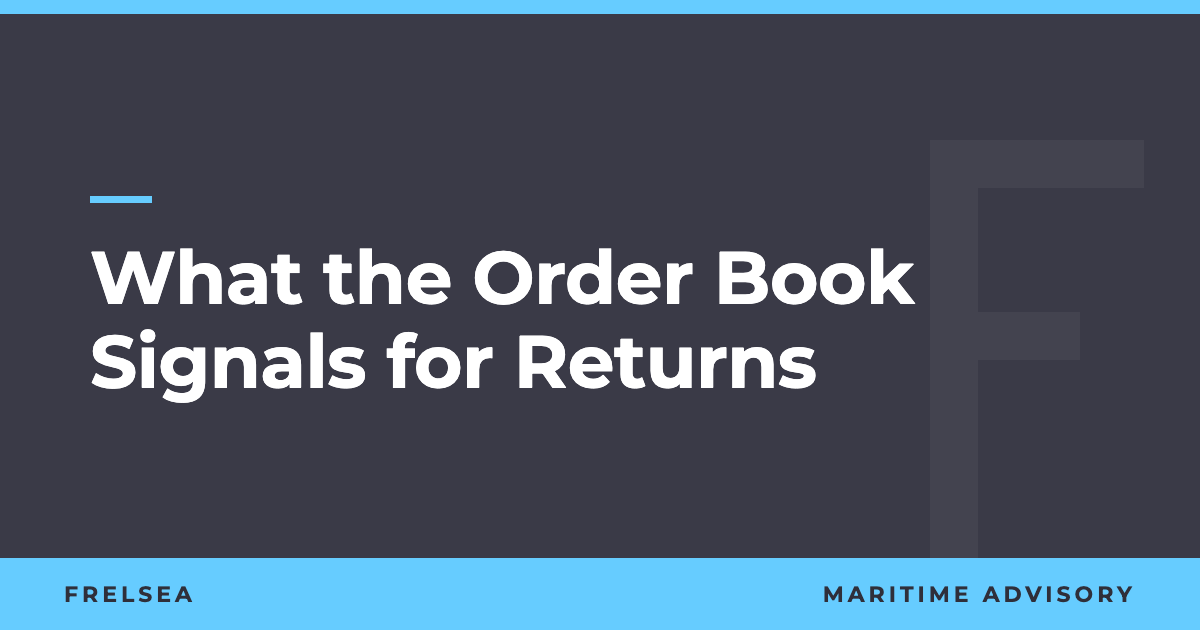
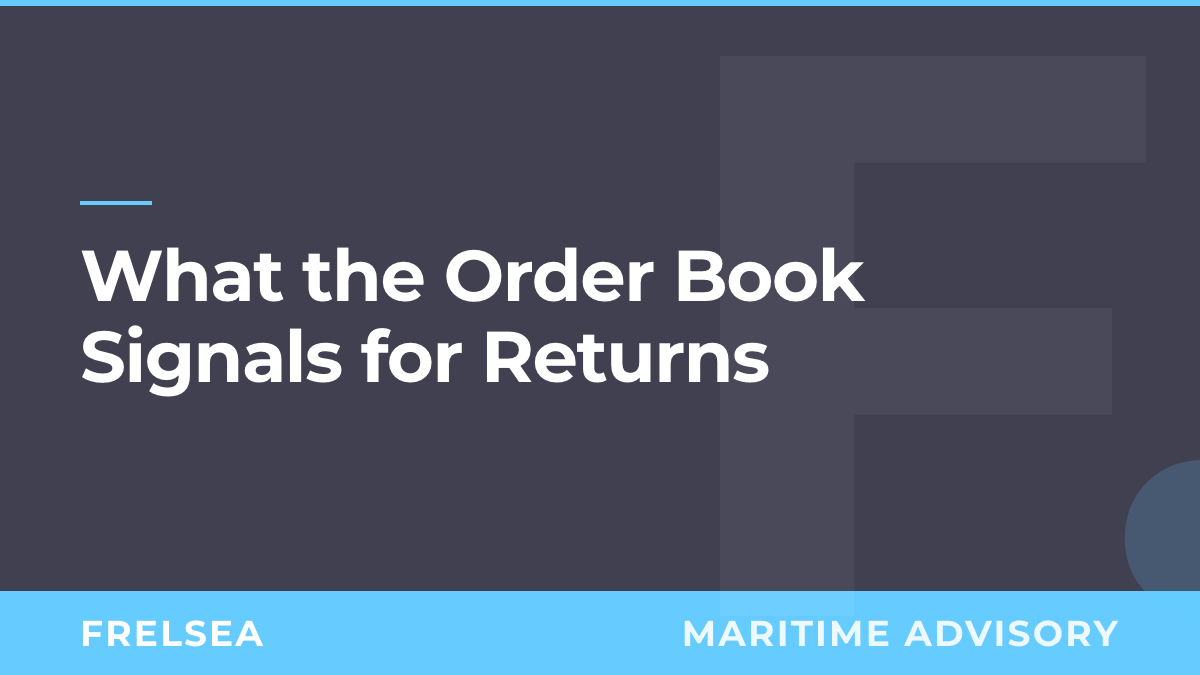
Add insight-post skill and align insight covers to brand
Add a repo skill (.claude/skills/insight-post) that turns a supplied paper
into a Frelsea deep-insight post following the house rules: extract real
figures, build a grounded SVG graphic and a themed cover, write the post
with SEO front matter and the analysis tag, and verify a local build.
Rebuild the cover template to match the official weekly generator frame
(404051 ground, 6px bar, F-logo watermark, white footer, 1200x675) and
regenerate the three insight covers.

diff --git a/.claude/skills/insight-post/assets/cover-template.html b/.claude/skills/insight-post/assets/cover-template.html
@@ -1,0 +1,76 @@
+<!DOCTYPE html>
+<html>
+<head>
+<meta charset="UTF-8">
+<link rel="preconnect" href="https://fonts.googleapis.com">
+<link href="https://fonts.googleapis.com/css2?family=Montserrat:wght@700;900&display=swap" rel="stylesheet">
+<style>
+  * { margin: 0; padding: 0; box-sizing: border-box; }
+  body {
+    width: 1200px; height: 675px;
+    overflow: hidden;
+    background: #404051;
+    -webkit-font-smoothing: antialiased;
+  }
+  .cover {
+    width: 1200px; height: 675px;
+    display: flex; flex-direction: column;
+    overflow: hidden; position: relative;
+  }
+  .top-bar { height: 6px; background: #66ccff; flex-shrink: 0; }
+  .bg-logo {
+    position: absolute;
+    right: -80px; top: 50%;
+    transform: translateY(-50%);
+    pointer-events: none;
+  }
+  .body {
+    flex: 1; display: flex; flex-direction: column;
+    justify-content: center; padding: 0 80px;
+    position: relative; z-index: 1;
+  }
+  .rule { width: 72px; height: 4px; background: #66ccff; margin-bottom: 30px; }
+  .title {
+    font-family: 'Montserrat', sans-serif;
+    font-weight: 700; font-size: 72px;
+    color: #fff; line-height: 1.12; letter-spacing: -0.02em;
+    max-width: 1000px;
+  }
+  .footer {
+    background: #66ccff; display: flex; align-items: center;
+    justify-content: space-between; padding: 0 80px;
+    height: 84px; flex-shrink: 0;
+  }
+  .fb {
+    font-family: 'Montserrat', sans-serif;
+    font-weight: 700; font-size: 36px;
+    color: #fff; letter-spacing: 0.06em;
+  }
+  .ft {
+    font-family: 'Montserrat', sans-serif;
+    font-weight: 700; font-size: 36px;
+    text-transform: uppercase; letter-spacing: 0.06em;
+    color: rgba(255,255,255,0.88);
+  }
+</style>
+</head>
+<body>
+<div class="cover">
+  <div class="top-bar"></div>
+  <div class="bg-logo">
+    <svg viewBox="0 0 100 100" xmlns="http://www.w3.org/2000/svg" width="560" height="560">
+      <polygon fill="rgba(255,255,255,0.05)" points="76 19 76 0 0 0 0 100 24 100 24 64 70 64 70 45 24 45 24 19 76 19"/>
+      <path fill="rgba(102,204,255,0.18)" d="m86.14,100c-3.81,0-7.07-1.31-9.78-3.92s-4.07-5.93-4.07-9.93,1.36-7.57,4.07-10.14c2.71-2.58,5.97-3.86,9.78-3.86s7.19,1.28,9.86,3.86c2.66,2.57,4,5.95,4,10.14s-1.34,7.31-4,9.93c-2.67,2.62-5.95,3.92-9.86,3.92Z"/>
+    </svg>
+  </div>
+  <div class="body">
+    <div class="rule"></div>
+    <div class="title">{{TITLE}}</div>
+  </div>
+  <div class="footer">
+    <span class="fb">FRELSEA</span>
+    <span class="ft">Maritime Advisory</span>
+  </div>
+</div>
+</body>
+</html>

diff --git a/.claude/skills/insight-post/SKILL.md b/.claude/skills/insight-post/SKILL.md
@@ -1,0 +1,101 @@
+---
+name: insight-post
+description: >-
+  Turn a journal paper, working paper, or industry article into a Frelsea deep-insight blog post
+  (an "analysis" post for the Frelsea maritime-advisory site, distinct from the weekly market reports).
+  Use this whenever the user supplies a paper or article (PDF path, DOI, or URL) and wants an insight
+  post, deep-dive, or analysis piece, or says things like "make an insight post from this paper",
+  "turn this study into a deep-dive", "write a Frelsea analysis of this", or hands over a paper to
+  base a post on. It runs the whole pipeline: extracting the source's real figures, building a grounded
+  SVG graphic and a themed cover, writing the post in the house voice with SEO front matter and the
+  `analysis` tag, and verifying with a local Jekyll build. Always use this for Frelsea deep-insight /
+  analysis posts. Do NOT use it for the weekly S&P / demolition / newbuilding market reports — those
+  have their own separate pipeline (the weekly-broker-pipeline skill).
+---
+
+# Frelsea insight-post builder
+
+Turns one source (a journal paper, working paper, or substantive industry article) into one publishable Frelsea deep-insight post: a markdown file, one or two original graphics, and a themed cover, left as a `published: false` draft for the user to review.
+
+This skill operationalizes the user's standing conventions. If these memory files are loaded they are the source of truth and this skill just sequences them: `frelsea-blog-writing-style`, `frelsea-ai-writing-tropes`, `frelsea-deep-insight-posts`. The reference files bundled here restate the essentials so the skill works even when memory is absent.
+
+The repo lives at the project root (a Jekyll site). Paths below are relative to it.
+
+## What "good" looks like
+
+A Frelsea reader is an institutional shipowner or principal allocating significant capital. The post reads as sober, research-grounded analysis from a maritime advisor, not a blog. The single most important rule: **every number shown is real and attributable, or the graphic carries no numbers at all.** A fabricated data point destroys the credibility the whole exercise is meant to build. When in doubt, use a labelled model schematic with no scale rather than inventing values.
+
+## The pipeline
+
+Work through these in order. Read the two reference files before writing anything.
+
+- `references/writing-and-seo.md` — the house voice, the AI-trope blacklist, and the exact front-matter / SEO / tag spec. Read it fully; the voice rules are strict and easy to violate.
+- `references/graphics.md` — the `.fr-viz` figure-card system, the SVG conventions, the grounding rules, and the cover generator. Read it before building any graphic.
+
+### 1. Ingest the source and pull the real figures
+
+The graphic and the post must be grounded in what the source actually says, so extraction comes first.
+
+- **Local PDF:** `pdftotext -layout <file.pdf> <out.txt>`, then read the text and grep for the figures, tables, sample period, dataset, and the key quantitative claims (correlations, coefficients, peak/trough values with dates, magnitudes). Note exact numbers verbatim.
+- **URL / web article:** fetch it and extract the same.
+- **Paywalled paper (ScienceDirect, QJE, Elsevier, etc.):** the publisher page will 403. Get the verifiable metadata and abstract from the Semantic Scholar API instead:
+  `curl -s "https://api.semanticscholar.org/graph/v1/paper/search?query=<title+words>&fields=title,abstract,authors,year,venue,openAccessPdf"`
+  Confirm authors, year, venue, and DOI. If the abstract is elided, rely on the abstract/figures you can verify elsewhere and do not invent specifics.
+- Record a clean citation: Author(s) (year), "Title", Venue, with DOI/link.
+
+Keep a short list of the real numbers you will use. If you cannot verify a number, it does not go in a chart.
+
+### 2. Choose the angle and the graphic(s)
+
+Pick one clear thesis the source supports — the practical takeaway for a shipowner, not a literature summary. Then decide the graphic(s):
+
+- **Real-data chart** when the source gives chartable figures (a relationship, a time series with documented anchor points, a breakdown). Mark only the real values; if you draw a relationship line through documented points, say so in the note.
+- **Model schematic, no numbers** when the source is conceptual or the data would obsolesce. This is often the better, more durable choice (the user prefers it). Label it clearly as schematic with no scale.
+
+One or two graphics is right. A flagship piece often pairs one real-data chart with one model schematic. See `references/graphics.md`.
+
+### 3. Build the graphic include(s)
+
+Author each as `_includes/<slug>-<name>.html` following the `.fr-viz` structure in `references/graphics.md`. Do not redefine the base `.fr-viz` card styles (they live in `assets/css/style.css`); only add chart-specific CSS scoped under the include's `#id`. No "Data"/"Model" eyebrow chip.
+
+**Verify each graphic visually before embedding it.** Wrap the include in a minimal HTML page and screenshot it with Chrome headless (see `references/graphics.md`), then read the screenshot and fix any label collisions or overflow. Charts that look fine in code routinely have overlapping labels.
+
+### 4. Generate the cover
+
+Run the bundled script:
+
+```
+scripts/make_cover.sh "Post Title" assets/img/covers/insight-<slug>-cover.png
+```
+
+Title-only, mixed case, on the branded frame. For a two-line title, pass the break as `<br>` inside the title string. Read the output PNG to confirm it looks right. Details and the template are in `references/graphics.md`.
+
+### 5. Write the post
+
+Create `_posts/YYYY-MM-DD-<slug>.md`. Follow `references/writing-and-seo.md` exactly for front matter and voice. The essentials:
+
+- `published: false` always (the user reviews before publishing).
+- `tags:` must begin with `analysis`, then relevant segment tags (`dry-bulk`, `tankers`, `demolition`, `newbuilding`) and topic tags (`s-and-p`, `market-cycles`, `ship-finance`, ...). **Never** add `market-report` to an insight post.
+- `description` 150-160 chars, keyword-rich. `image` points to the cover. `key_points`: 3-5 plain, self-contained sentences.
+- Attribute the source inline by name and year, and reference the chart's source in its note. The body is institutional third person: no em dashes, no negative parallelism in any form, no rhetorical-question openers or announcement hooks, no second person, no punchy one-line fragments, straight quotes only.
+- Insert the graphic(s) with `{% include <slug>-<name>.html %}` at the point each is discussed.
+- Length is whatever the topic needs (roughly 900-1400 words is typical); depth over filler.
+
+### 6. Verify the build
+
+```
+RBENV_VERSION=3.3.5 jekyll build --quiet --destination _site_test
+```
+
+The post is `published: false`, so it will not appear in the build. To confirm it renders (includes load, key_points box, JSON-LD), temporarily copy it to a test file with `published: true`, build with `--future`, screenshot the page from a local `jekyll serve`, then delete the test copy. Also run the quick text checks in `references/writing-and-seo.md` (no em dashes, no negative-parallelism patterns, description length, straight quotes). Remove `_site_test` when done.
+
+### 7. Hand back
+
+Report: the post path, the include(s), the cover, the citation used, which numbers are real vs which graphic is a schematic, and the verification result. Leave it as a draft. Mention that the user may want to set a backdated/staggered `date:` for publishing cadence rather than today's date (the site presents a sustained posting history). Do not commit or push unless asked.
+
+## Grounding rules (non-negotiable)
+
+- Real numbers must be traceable to the source. No invented data points, ever.
+- A graphic is either grounded in cited real figures (state the source in the note) or a schematic with no numbers (label it as such). Nothing in between.
+- If the source is paywalled and a figure cannot be verified, describe the mechanism qualitatively or use a schematic; do not reconstruct numbers from memory.
+- Be honest in the hand-back about what is real and what is illustrative.

diff --git a/.claude/skills/insight-post/references/graphics.md b/.claude/skills/insight-post/references/graphics.md
@@ -1,0 +1,92 @@
+# Graphics: the .fr-viz figure system, SVG conventions, grounding, and the cover
+
+Mirrors the graphics conventions in `frelsea-deep-insight-posts` memory.
+
+## Grounding (read first)
+
+A graphic is one of exactly two kinds:
+
+1. **Real-data chart** — every plotted value is traceable to the source. State the source in the `__sub` line and/or the `__note`. If you draw a relationship line through a few documented points (rather than a full dataset you don't have), say so explicitly in the note ("the marked points are reported figures; the line shows the documented relationship").
+2. **Model schematic with no numbers** — illustrates a mechanism or relationship with no scale. Label it in the note as "a schematic, with no scale". This is preferred when data would obsolesce or the source is conceptual.
+
+Never mix the two by implying precision you don't have. Never invent a number.
+
+## The .fr-viz figure-card structure
+
+The base card styling (border, shadow, padding, title, sub, note, divider) is centralised in `assets/css/style.css`. Includes must NOT redefine the base `.fr-viz`, `.fr-viz__head`, `.fr-viz__title`, `.fr-viz__sub`, `.fr-viz__note`, or `.fr-viz__chart` rules — only add chart-specific CSS scoped under the include's `#id`. There is NO eyebrow / "Data" / "Model" chip (it was removed).
+
+Template for an include (`_includes/<slug>-<name>.html`):
+
+```html
+<div class="fr-viz" id="fr-<slug>-<name>">
+  <div class="fr-viz__head">
+    <div class="fr-viz__title">A descriptive figure title</div>
+    <div class="fr-viz__sub">One-line context. Source: Author (year), from <dataset>.</div>
+  </div>
+
+  <div class="fr-viz__chart">
+    <svg viewBox="0 0 760 430" preserveAspectRatio="xMidYMid meet" role="img"
+         aria-label="Plain-language description of what the chart shows">
+      <!-- chart elements, using the scoped classes below -->
+    </svg>
+  </div>
+
+  <div class="fr-viz__note">What the chart shows, what is real vs schematic, and the source.</div>
+</div>
+
+<style>
+#fr-<slug>-<name> .fr-x-line{stroke:#cfcfd6;stroke-width:1;}
+/* ...only chart-specific, all scoped under the #id... */
+</style>
+```
+
+The `__sub` line is optional (use it for real-data charts to carry the source; schematics can omit it).
+
+## SVG conventions
+
+- `viewBox="0 0 760 430"` is the house size; the CSS makes it responsive (`width:100%`).
+- Palette: accent `#66ccff` (darker text-on-light variant `#3aa6e0`), body text `#60606e`, muted `#999999`, gridlines `#ececf0`, light fills `#f1f1f4` / `#eaf6fd`, dark slate `#404051`.
+- Fonts: Montserrat (weight 700) for titles/labels that should read as headings; Open Sans for muted annotations. Set via `font-family` in the scoped classes.
+- Axis-title style: small, uppercase, letter-spaced, Montserrat 700, fill `#999`.
+- Use dashed strokes (`stroke-dasharray`) for schematic/relationship lines and gridlines; solid accent for the primary series.
+- For arrowheads, define a `<marker>` in `<defs>` with a unique id per include.
+
+## Always verify a graphic before embedding
+
+Label collisions and overflow are common and invisible in code. Render each include standalone and look at it:
+
+```bash
+SP=/tmp   # scratch
+INC=_includes/<slug>-<name>.html
+cat > $SP/view.html <<EOF
+<!doctype html><html><head><meta charset="utf-8">
+<style>body{background:#fff;margin:0;padding:24px;width:820px;}</style></head><body>
+$(cat "$INC")
+</body></html>
+EOF
+"/Applications/Google Chrome.app/Contents/MacOS/Google Chrome" --headless=new --disable-gpu \
+  --hide-scrollbars --force-device-scale-factor=2 --window-size=860,560 \
+  --screenshot=$SP/shot.png "file://$SP/view.html"
+```
+
+Then read `$SP/shot.png` and fix any overlapping labels (nudge x/y, change `text-anchor`, shorten text). Note: standalone renders may drop the site web-fonts and the centralised card border (the base CSS isn't linked) — that's expected; you're checking the SVG content, not the card chrome. To check the card chrome too, view the post on a local `jekyll serve`.
+
+## Worked examples in the repo
+
+- `_includes/order-book-returns-chart.html` — a real-data relationship chart (documented anchor points + a relationship line, with the source and the real/illustrative split stated in the note).
+- `_includes/shipping-cycle-loop.html` — a model schematic with no numbers (a labelled feedback loop).
+- `_includes/secondhand-premium-chart.html` and `_includes/ship-finance-contraction-chart.html` — a schematic and a real-data bar chart respectively.
+
+Read whichever is closest to what you're building and follow its structure.
+
+## The cover
+
+Run the bundled generator:
+
+```
+scripts/make_cover.sh "Post Title" assets/img/covers/insight-<slug>-cover.png
+```
+
+It substitutes the title into `assets/cover-template.html` and screenshots it with Chrome headless at 1200x675. The frame is brand-matched to the official weekly cover generator (`~/Documents/Claude/Projects/Frelsea/generate_cover_image.py`): background `#404051`, a 6px `#66ccff` top bar, an 84px `#66ccff` footer with white "FRELSEA" / "MARITIME ADVISORY" (Montserrat 700, 36px, letter-spacing 0.06em), and the real Frelsea F-logo watermark (faint white F polygon + blue dot, 560px, offset off the right edge and vertically centred). Insight covers differ from the weekly ones only in the body: title-only, mixed case, white Montserrat 700 ~72px, with a 72x4 blue accent rule above it (no year / WEEK NN / sub line). For a two-line title, include `<br>` in the title string at the break point. Read the output PNG to confirm the title fits and looks right; if a long title overflows, shorten it or add a `<br>`. If the brand frame ever needs re-checking, the official generator is the source of truth for colours, sizes, and the F geometry.
+
+Do NOT split the title into keywords or add eyebrow/subtitle lines — the user found that messy. Title only.

diff --git a/.claude/skills/insight-post/references/writing-and-seo.md b/.claude/skills/insight-post/references/writing-and-seo.md
@@ -1,0 +1,69 @@
+# Writing voice, AI-trope blacklist, and SEO front matter
+
+Mirrors the user's `frelsea-blog-writing-style`, `frelsea-ai-writing-tropes`, and `frelsea-deep-insight-posts` memory. Apply all of it.
+
+## Voice
+
+The reader is an institutional shipowner or principal. Ship sale and purchase is a significant capital-allocation decision, so the register is cold, professional, and analytical. Write as a maritime advisor presenting research-grounded analysis.
+
+- Plain and direct. Paragraphs used liberally. No flowery or salesy language. No calls to action.
+- Third person and impersonal throughout. No second-person address ("you", "if you want to"), no retail framing ("anyone who has bought a ship knows", "everyone knows").
+- Use scientific papers as inspiration, but write a standalone article, not a literature review.
+
+## AI-trope blacklist
+
+These are the tells that make writing read as AI-generated. Scan the draft for each and remove it.
+
+- **Negative parallelism in any form.** This is the most common and most important. Avoid "not X but Y", "X, not Y", and "X rather than Y" reframes. State things positively and directly. Example to avoid: "The price is not a single number, it is a range." Write the positive claim instead.
+- **No rhetorical-question openers and no announcement hooks.** Avoid "X is not a single number", "Here is the thing", "The result? ...". Open with a plain declarative sentence.
+- **No punchy one-line fragments for emphasis**, no blockquotes for drama, no contrarian framing, no preachy closing line.
+- **No em dashes anywhere.** En dash and hyphen are fine. (After drafting, grep for `—` and `–` and remove them.)
+- **Straight quotes only** (`"` and `'`), never curly quotes.
+- No fabricated data, no broker names, no internal/benchmark figures.
+
+After drafting, run these checks (from the repo root):
+
+```
+P=_posts/YYYY-MM-DD-<slug>.md
+grep -nE "—|–" "$P"                                          # em/en dashes -> should be empty
+grep -niE "not [a-z]+ but |, not |rather than|instead of" "$P"   # negative parallelism
+grep -niE "\byou\b|\byour\b" "$P"                            # second person
+grep -nE "[“”‘’]" "$P"                                       # curly quotes
+```
+
+All four should return nothing.
+
+## Front matter (every insight post)
+
+```
+---
+layout: post
+title: "Title in Mixed Case"
+date: YYYY-MM-DD
+published: false
+description: "Keyword-rich meta description, 150 to 160 characters."
+tags: [analysis, <segment(s)>, <topic(s)>]
+image: /assets/img/covers/insight-<slug>-cover.png
+key_points:
+  - "Plain, self-contained sentence, roughly 12 to 22 words."
+  - "..."
+---
+```
+
+- `published: false` always. The user reviews and publishes.
+- `tags` MUST begin with `analysis` (the content-type tag that separates deep-insight posts from the weekly `market-report` posts; the site has `/tags/analysis/` and a "Browse" sidebar). Then add the relevant segment tags (`dry-bulk`, `tankers`, `demolition`, `newbuilding`) and topic tags (`s-and-p`, `market-cycles`, `ship-finance`, `recycling`, etc.). NEVER add `market-report` to an insight post.
+- `description`: 150-160 characters, keyword-rich; it is the meta description. Verify length.
+- `image`: the cover PNG produced in step 4.
+- `date`: default to today, but tell the user they may prefer a backdated/staggered date so the posting history reads as a sustained operation rather than a burst.
+
+## key_points
+
+3 to 5 plain, self-contained sentences, fact-first and scannable, roughly 12 to 22 words each. The layout renders them as a "Key points" box at the top, and they help AI answer-engines extract the post. Lead with the fact or finding. Vary the openings (do not start every line the same way). Real figures only. YAML: one line per item, double-quoted, no inner double quotes.
+
+## SEO is already wired in the layout
+
+`_layouts/post.html` auto-generates, for every post: canonical tag, `<html lang>`, article meta (published/modified, tags), Open Graph / Twitter cards, and JSON-LD for BlogPosting + BreadcrumbList. Do NOT add FAQ sections, a `faq` front-matter block, or FAQPage schema — the user had these removed because templated Q&A reads as obvious SEO scaffolding. Keep H2s descriptive and sentences self-contained; that is what serves both search and AI extraction.
+
+## Citations
+
+Attribute the source inline by author and year (e.g. "Greenwood and Hanson, in a 2015 study in the Quarterly Journal of Economics, ..."). Put the data source in each chart's note line. A formal footer reference block is optional and is the user's call; default to clean inline attribution unless asked for a reference list.